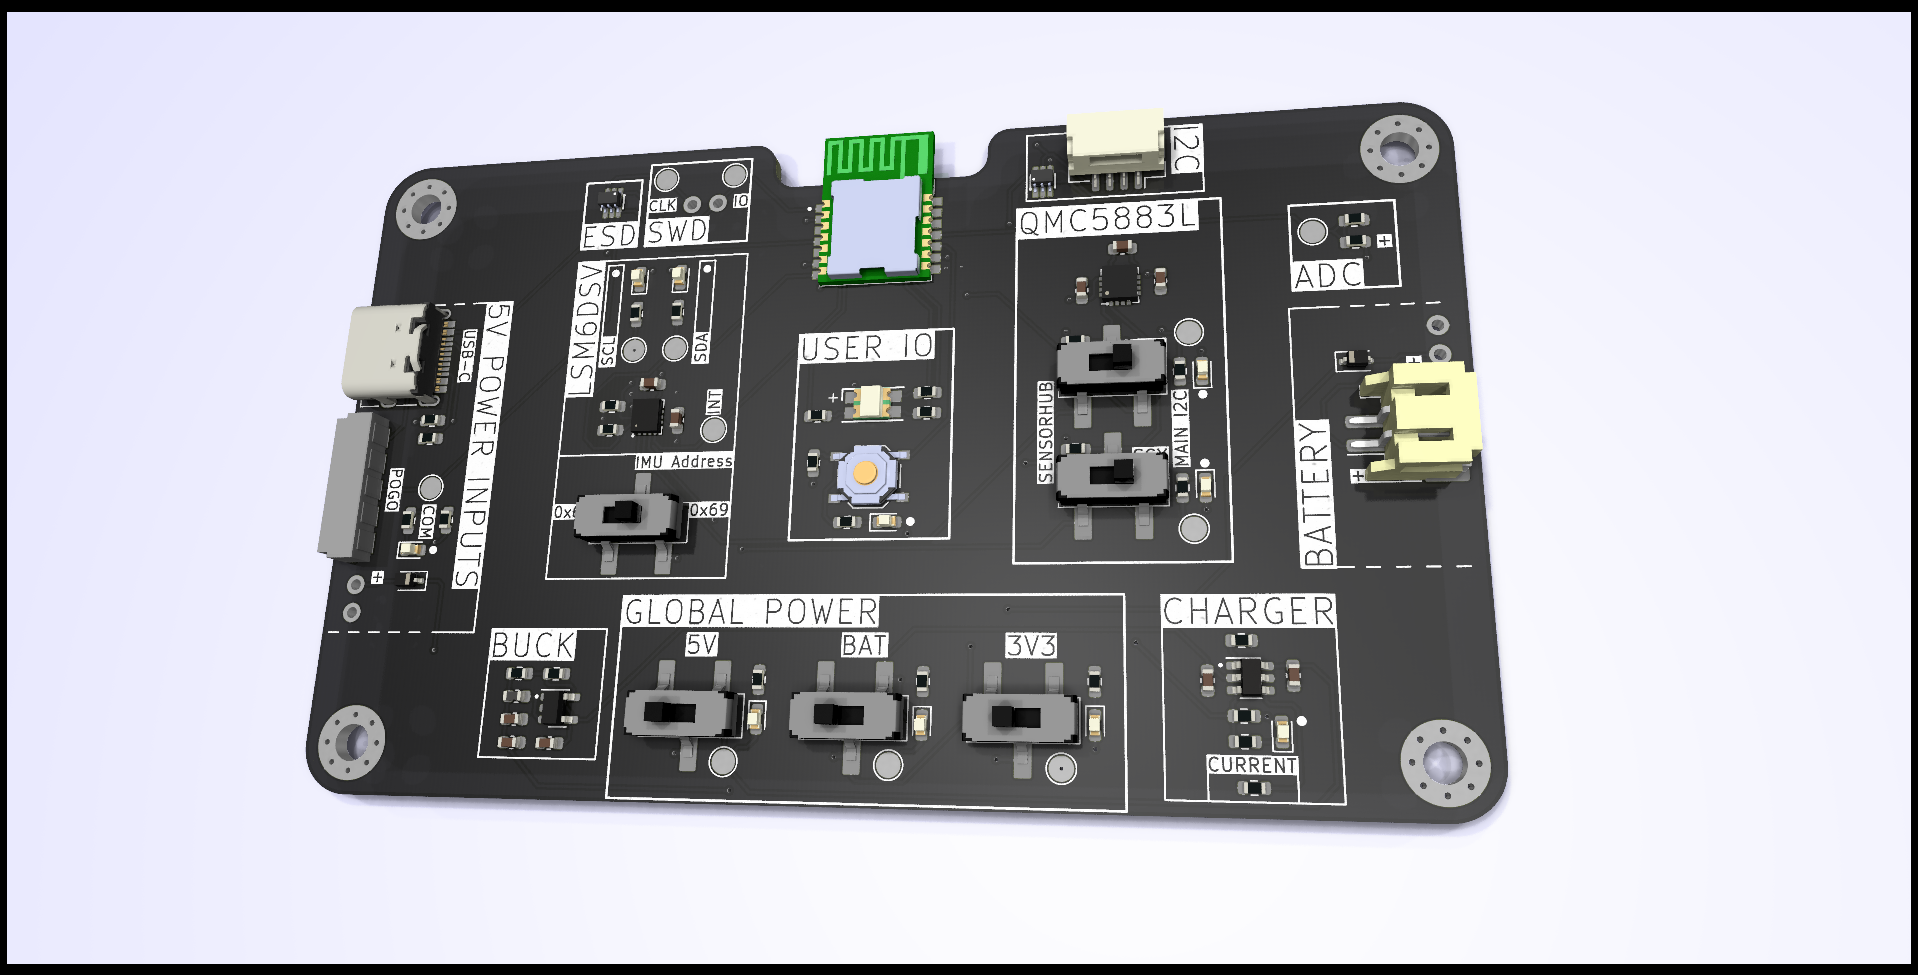
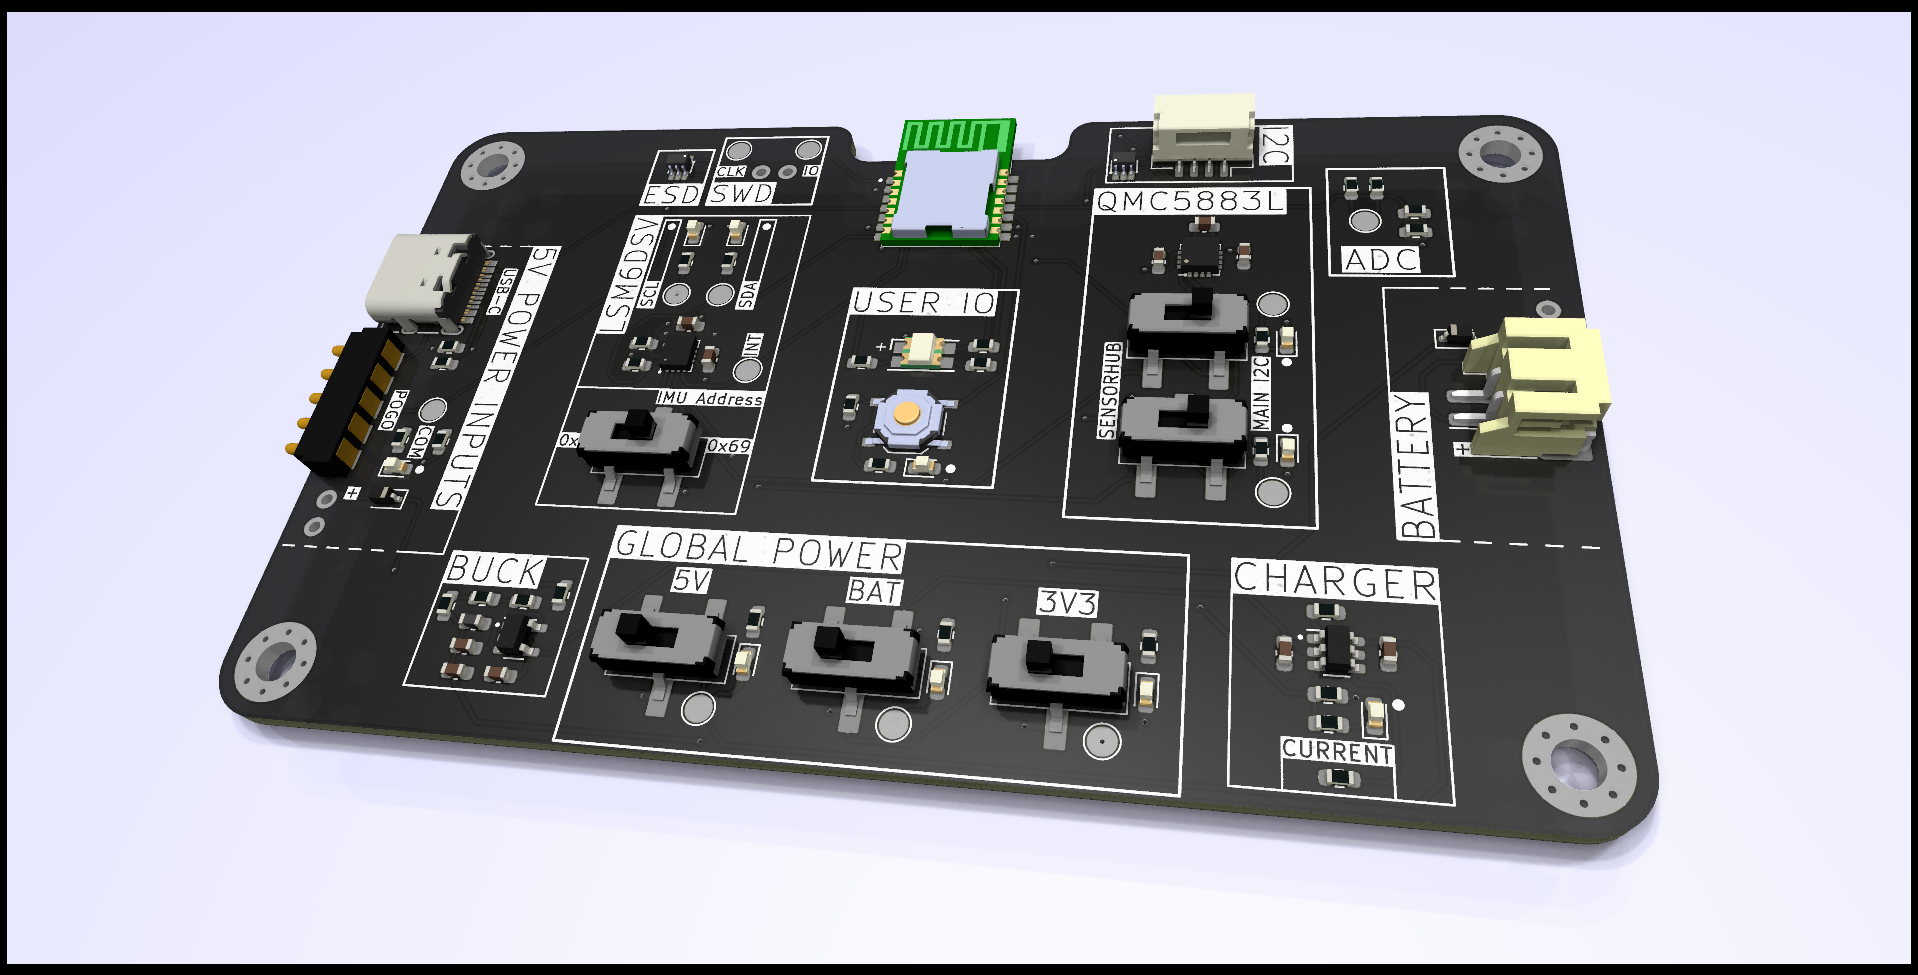
update board img

diff --git a/README.md b/README.md
@@ -1,2 +1,2 @@
 # Patchwork Playground - dev board
-![Board Image](http://cdn.kouno.xyz/8f01CIyD.png)
+![Board Image](http://cdn.kouno.xyz/kgV9mrEe.png)
